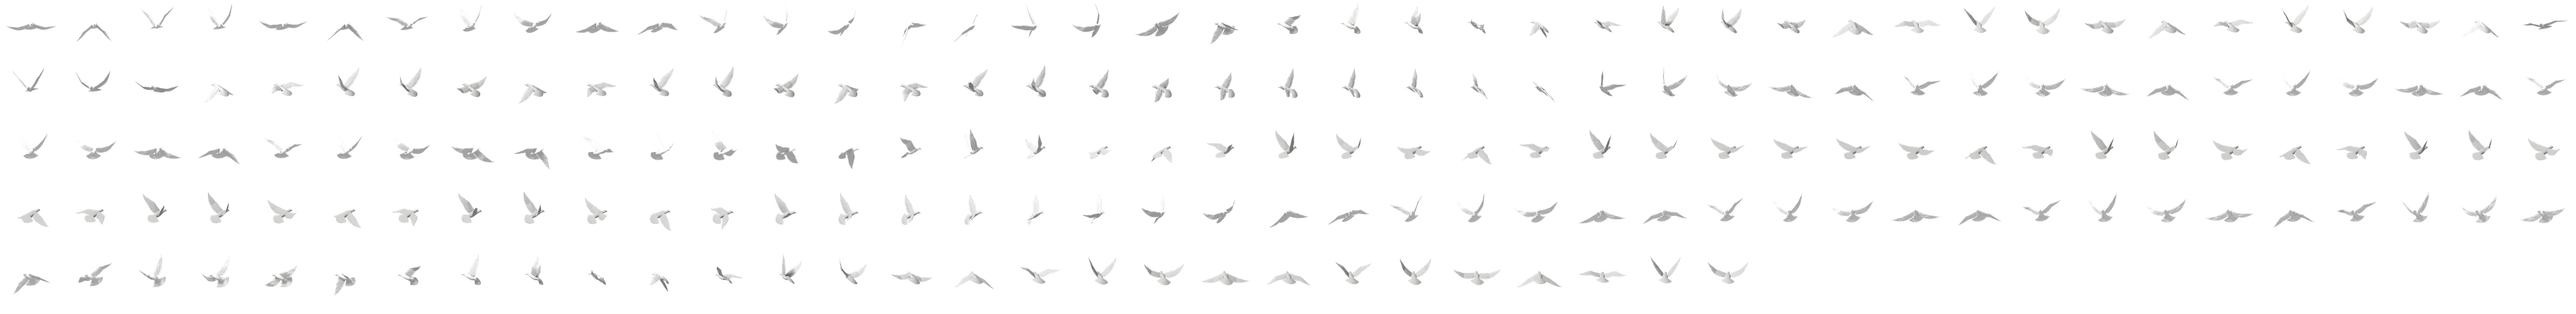
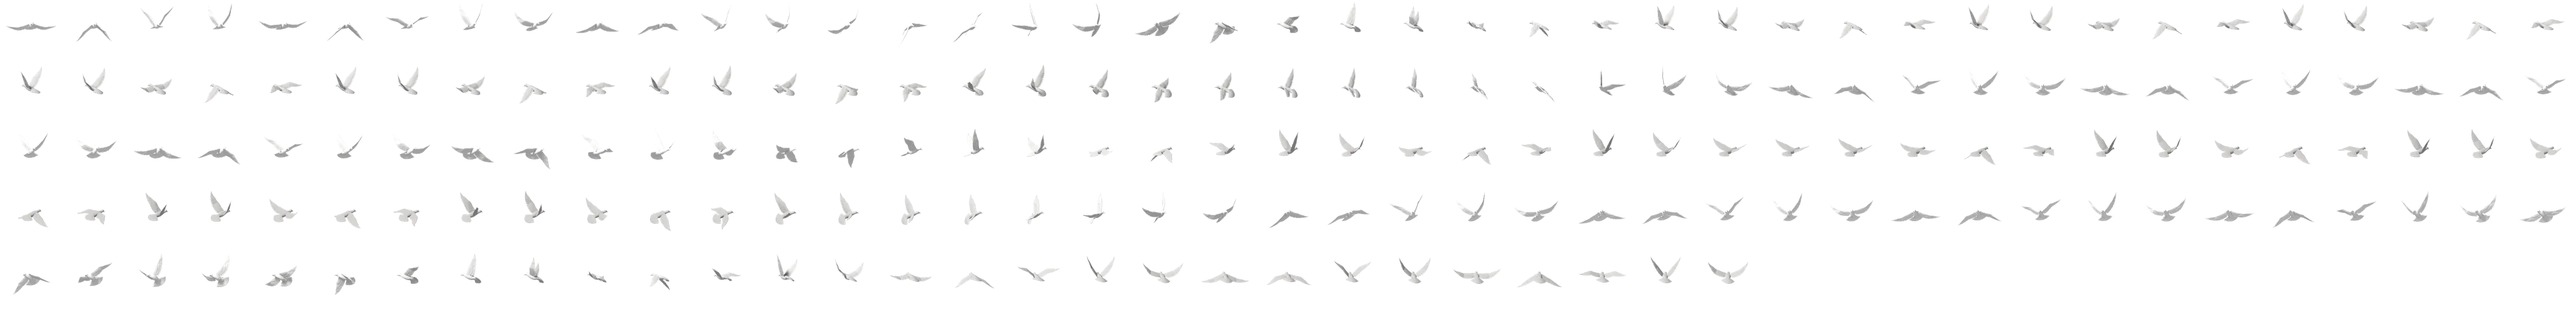
Camera dove A-C: never in the camera during the load
The loops' mid-lap climbs into the camera (dips) read as the load being
cancelled and left the tail showing. Only the out clip goes in now.
Re-rendered on a rented GPU.

Claude-Session: https://claude.ai/code/session_013h4Kq6GFrNUDgF21m8j8bP

diff --git a/apps/mobile/components/cameraDoveFrames.ts b/apps/mobile/components/cameraDoveFrames.ts
@@ -5,9 +5,9 @@
 export type CameraDovePath = { cell: number; px: number; cols: number; rows: number; ni: number; nl: number; no: number; sheet: number; f: number[] };
 export type CameraDoveId = 'a' | 'b' | 'c' | 'f';
 export const CAMERA_DOVES: Record<CameraDoveId, CameraDovePath> = {
-  a: { cell: 47.158, px: 108, cols: 37, rows: 5, ni: 21, nl: 120, no: 21, sheet: require('../assets/dove/camera/a.webp'), f: [0,-0.03,0.4,0,0.12,5.74,0.451,0.25,0.85,12.96,0.5062,0.5,2.47,19.94,0.5653,0.75,5,25.46,0.6254,1,8.27,29.13,0.6824,1,12.03,31.94,0.7338,1,16,33.2,0.78,1,19.92,33.06,0.8249,1,23.44,32.43,0.8693,1,26.32,32.45,0.9124,1,28.52,33.87,0.9535,1,30.09,34.29,0.9916,1,31.21,33.77,1.0259,1,32.1,32.92,1.0556,1,33.02,33.46,1.08,1,34.23,34.82,1.0988,1,35.93,34.78,1.1118,1,38.29,33.94,1.1191,1,41.32,32.99,1.1212,1,44.94,33.68,1.1194,1,48.88,34.84,1.1151,1,52.74,34.64,1.11,1,56.46,34.06,1.1045,1,60,34.02,1.0988,1,63.38,34.12,1.0927,1,66.58,34.23,1.0864,1,69.59,34.36,1.0798,1,72.42,34.47,1.0729,1,75.07,34.57,1.0659,1,77.53,34.63,1.0586,1,79.8,34.49,1.0512,1,81.89,33.82,1.0436,1,83.79,34.38,1.0359,1,85.51,35.39,1.028,1,87.05,35.12,1.02,1,88.41,34.2,1.0119,1,89.6,33.23,1.0037,1,90.61,33.69,0.9953,1,91.44,34.56,0.9869,1,92.1,34.25,0.9784,1,92.59,33.33,0.9697,1,92.9,32.34,0.961,1,93.03,32.67,0.9522,1,92.99,33.52,0.9433,1,92.76,33.28,0.9343,1,92.36,32.45,0.9253,1,91.77,31.49,0.9163,1,91.01,31.64,0.9073,1,90.07,32.56,0.8983,1,88.96,32.51,0.8894,1,87.67,31.86,0.8805,1,86.22,31.07,0.8717,1,84.58,31.24,0.863,1,82.76,31.56,0.8542,1,80.73,31.62,0.8454,1,78.47,31.65,0.8366,1,75.96,31.68,0.8276,1,73.17,31.71,0.8186,1,70.07,31.73,0.8095,1,66.61,31.68,0.8003,1,62.77,31.57,0.791,1,58.49,32.08,0.7817,1,53.74,32.18,0.7726,1,48.47,31.59,0.7636,1,42.68,30.77,0.7551,1,36.34,30.68,0.7472,1,29.48,31.47,0.7403,1,21.46,28.69,0.7231,1,12.91,21.49,0.6918,1,5.19,12.92,0.6571,1,-1.21,6.39,0.6296,1,-6.8,4.4,0.6194,1,-12.3,4.51,0.6221,1,-17.56,4.12,0.6262,1,-22.5,3.54,0.6314,1,-27.07,3.62,0.6375,1,-31.26,4.42,0.6442,1,-35.05,4.54,0.6513,1,-40.18,6.93,0.6707,1,-47.81,12.97,0.7073,1,-56.59,20.99,0.7503,1,-64.72,28.69,0.7882,1,-69.97,31.82,0.8092,1,-72.81,31.47,0.8175,1,-75.37,30.87,0.8257,1,-77.69,30.97,0.8337,1,-79.78,31.79,0.8416,1,-81.68,31.98,0.8494,1,-83.4,32.2,0.8572,1,-84.97,32.47,0.865,1,-86.39,32.75,0.8727,1,-87.67,33.03,0.8805,1,-88.83,33.31,0.8885,1,-89.86,33.6,0.8965,1,-90.76,34.14,0.9048,1,-91.53,34.77,0.9132,1,-92.15,34.55,0.9217,1,-92.61,33.88,0.9304,1,-92.91,33.75,0.9393,1,-93.04,34.97,0.9484,1,-92.97,35.57,0.9576,1,-92.71,35.21,0.9669,1,-92.23,34.42,0.9764,1,-91.53,34.13,0.9859,1,-90.6,35.34,0.9954,1,-89.42,35.98,1.005,1,-87.99,35.58,1.0145,1,-86.31,34.72,1.024,1,-84.38,34.4,1.0333,1,-82.2,35.67,1.0424,1,-79.77,36.29,1.0513,1,-77.09,35.82,1.06,1,-74.18,34.89,1.0683,1,-71.05,34.57,1.0763,1,-67.7,35.89,1.084,1,-64.15,36.45,1.0912,1,-60.41,35.93,1.0981,1,-56.5,34.94,1.1045,1,-52.43,34.58,1.1104,1,-48.21,35.87,1.1159,1,-43.85,36.45,1.1209,1,-39.38,35.91,1.1254,1,-34.8,34.88,1.1294,1,-30.14,34.36,1.1328,1,-25.4,35.55,1.1358,1,-20.6,36.24,1.1382,1,-15.76,35.74,1.1402,1,-10.88,34.71,1.1416,1,-5.99,33.97,1.1425,1,-1.1,34.97,1.1428,1,3.78,35.83,1.1427,1,8.63,35.4,1.1421,1,13.45,34.39,1.1409,1,18.2,33.47,1.1393,1,22.89,34.26,1.1371,1,27.49,35.25,1.1346,1,32.01,34.92,1.1315,1,36.41,33.96,1.128,1,40.7,33.01,1.1241,1,44.86,33.7,1.1198,1,48.88,34.84,1.1151,1,52.63,34.69,1.1098,1,55.65,33.95,1.1031,1,57.52,33.31,1.0942,1,58.06,34.45,1.0825,1,57.21,35.97,1.0677,1,55.07,36.16,1.0497,1,51.82,35.68,1.0285,1,47.73,35.27,1.0043,1,43.07,36.37,0.9773,1,38.17,36.95,0.9479,1,33.28,36.07,0.9165,1,28.65,34.44,0.8836,1,24.4,33.14,0.8496,1,20.56,32.91,0.815,1,17,31.65,0.78,1,13.36,29.18,0.7406,0.8,9.28,24.82,0.6832,0.6,5.22,19.58,0.6087,0.4,2.01,13.41,0.5294,0.2,0.32,6.44,0.4584,0] },
-  b: { cell: 47.053, px: 98, cols: 41, rows: 5, ni: 21, nl: 150, no: 21, sheet: require('../assets/dove/camera/b.webp'), f: [0,-0.03,0.4,0,0.26,5.58,0.4502,0.25,1.8,12.03,0.5013,0.5,5.15,17.77,0.5528,0.75,10.22,22.17,0.6036,1,16.54,25.47,0.6518,1,23.41,28.85,0.696,1,30.16,31.14,0.7352,1,36.37,31.41,0.7693,1,42,30.57,0.8,1,47.6,30.21,0.83,1,53.64,31.14,0.8601,1,60.19,31.22,0.89,1,67.02,30.51,0.9189,1,73.67,29.57,0.9462,1,79.55,29.92,0.9709,1,84.07,31.09,0.992,1,86.67,31.06,1.0088,1,87,30.34,1.0206,1,84.95,29.55,1.0271,1,80.76,30.3,1.0284,1,75.15,31.5,1.0251,1,69.12,31.5,1.0184,1,63.12,30.91,1.009,1,57.3,30.31,0.9979,1,51.68,31.13,0.9858,1,46.26,32.41,0.9731,1,41.05,32.52,0.9602,1,36.03,32.02,0.9474,1,30.64,30.24,0.9246,1,23.12,23.18,0.8492,1,15.9,13.66,0.7544,1,10.75,5.73,0.6832,1,7.82,3.99,0.6649,1,5.23,3.44,0.6565,1,2.69,3.8,0.6484,1,0.19,4.52,0.6406,1,-2.28,4.46,0.633,1,-4.72,4,0.6258,1,-7.13,3.47,0.6188,1,-9.8,5.02,0.6209,1,-14.4,13.53,0.6697,1,-20.73,23.88,0.7363,1,-27.15,30.92,0.7833,1,-31.48,31.27,0.7845,1,-35.32,31.42,0.7775,1,-39.14,32.11,0.771,1,-42.93,31.91,0.7649,1,-46.71,31.2,0.7591,1,-50.47,30.34,0.7538,1,-54.21,30.37,0.749,1,-57.93,31.09,0.7446,1,-61.62,31.02,0.7407,1,-65.27,30.42,0.7374,1,-68.87,29.64,0.7345,1,-72.41,29.56,0.7322,1,-75.87,30.37,0.7305,1,-79.23,30.55,0.7294,1,-82.49,30.13,0.729,1,-85.66,29.63,0.7291,1,-88.78,29.76,0.7299,1,-91.89,29.96,0.7314,1,-95.05,30.01,0.7338,1,-98.26,30.08,0.7373,1,-101.49,29.97,0.7422,1,-104.58,29.81,0.7485,1,-107.39,30.57,0.756,1,-109.83,31.02,0.7645,1,-111.88,30.71,0.7737,1,-113.56,30.06,0.7834,1,-114.9,29.77,0.7933,1,-115.97,30.69,0.8035,1,-116.78,31.2,0.8139,1,-117.37,30.87,0.8244,1,-117.76,30.14,0.8351,1,-117.96,29.76,0.8459,1,-117.99,30.71,0.8568,1,-117.86,31.27,0.8679,1,-117.56,30.91,0.8791,1,-117.11,30.13,0.8903,1,-116.5,29.72,0.9017,1,-115.72,30.75,0.9131,1,-114.78,31.34,0.9246,1,-113.67,30.94,0.936,1,-112.37,30.11,0.9473,1,-110.89,29.7,0.9584,1,-109.22,30.79,0.9692,1,-107.36,31.42,0.9796,1,-105.29,31.01,0.9894,1,-103.03,30.16,0.9984,1,-100.54,29.72,1.0066,1,-97.79,30.85,1.0138,1,-94.67,31.57,1.0201,1,-91.02,31.22,1.0251,1,-86.66,30.42,1.0283,1,-81.52,29.99,1.0287,1,-75.76,31.2,1.0257,1,-69.71,32.17,1.0191,1,-63.66,32.05,1.0099,1,-57.76,31.46,0.9989,1,-52.07,31.1,0.9867,1,-46.57,32.24,0.9739,1,-41.28,33.36,0.9608,1,-36.18,33.38,0.9477,1,-31.26,32.9,0.9348,1,-26.48,32.44,0.9222,1,-21.83,33.29,0.9098,1,-17.3,34.42,0.8978,1,-12.85,34.34,0.8861,1,-8.5,34.1,0.8748,1,-4.21,34.1,0.8639,1,0,34.25,0.8533,1,4.15,34.16,0.8432,1,8.25,33.5,0.8335,1,12.3,33.82,0.8242,1,16.3,34.67,0.8153,1,20.27,34.57,0.8067,1,24.19,33.88,0.7986,1,28.08,33,0.7909,1,31.94,32.99,0.7836,1,35.77,33.73,0.7767,1,39.57,33.63,0.7703,1,43.35,32.93,0.7642,1,47.11,32.03,0.7586,1,50.84,31.89,0.7534,1,54.55,32.62,0.7486,1,58.22,32.58,0.7443,1,61.87,31.94,0.7405,1,65.48,31.1,0.7372,1,69.03,30.98,0.7344,1,72.52,31.76,0.7322,1,75.92,31.81,0.7305,1,79.23,31.27,0.7294,1,82.44,30.53,0.729,1,85.57,30.53,0.7291,1,88.64,31.25,0.7298,1,91.71,31.13,0.7313,1,94.82,30.97,0.7336,1,97.99,30.99,0.737,1,101.18,31.02,0.7416,1,104.26,31.22,0.7477,1,107.08,31.51,0.7551,1,109.55,31.25,0.7634,1,111.63,30.56,0.7725,1,113.35,30.57,0.7821,1,114.74,31.53,0.792,1,115.84,31.74,0.8021,1,116.69,31.26,0.8125,1,117.31,30.49,0.8231,1,117.72,30.34,0.8338,1,117.95,31.32,0.8447,1,118,31.64,0.8557,1,117.88,31.19,0.8669,1,117.59,30.38,0.8782,1,117.14,30.03,0.8896,1,116.53,31,0.9011,1,115.75,31.53,0.9127,1,114.8,31.13,0.9243,1,113.68,30.31,0.9359,1,112.37,29.76,0.9473,1,110.86,30.65,0.9586,1,109.16,31.4,0.9696,1,107.26,31.09,0.9801,1,105.16,30.27,0.9899,1,102.86,29.56,0.999,1,100.33,30.35,1.0072,1,97.52,31.3,1.0144,1,94.34,31.1,1.0206,1,90.61,30.32,1.0255,1,86.16,29.56,1.0285,1,80.94,30.33,1.0286,1,75.15,31.5,1.0251,1,69.11,31.52,1.0184,1,63.06,31.07,1.009,1,57.17,30.8,0.9975,1,51.56,32.23,0.9841,1,46.33,34,0.9688,1,41.5,34.53,0.9514,1,37.1,34.34,0.9317,1,33.11,34.06,0.9097,1,29.48,34.97,0.8852,1,26.15,35.26,0.8584,1,23.02,34.14,0.8298,1,20,32.41,0.8,1,16.96,31.13,0.7695,1,13.77,30.66,0.7365,1,10.47,28.72,0.6994,1,7.27,25.3,0.6577,0.8,4.42,20.94,0.6116,0.6,2.2,16.76,0.5617,0.4,0.76,12.11,0.5091,0.2,0.11,6.21,0.4549,0] },
-  c: { cell: 47.218, px: 116, cols: 35, rows: 7, ni: 21, nl: 170, no: 21, sheet: require('../assets/dove/camera/c.webp'), f: [0,-0.03,0.4,0,0.33,5.58,0.4491,0.25,2.28,11.98,0.4939,0.5,6.54,17.61,0.5327,0.75,13.04,21.89,0.566,1,21.18,25.08,0.5956,1,30.12,28.24,0.624,1,39.03,30.3,0.6535,1,47.34,30.48,0.6855,1,55,29.61,0.72,1,62.49,29.15,0.7554,1,69.86,29.82,0.7926,1,76.95,29.61,0.8325,1,83.55,28.56,0.8752,1,89.48,27.19,0.9202,1,94.58,27,0.9663,1,98.82,27.64,1.0122,1,102.23,27.08,1.0563,1,105.06,25.8,1.0971,1,107.71,24.43,1.1333,1,110.85,24.75,1.164,1,115.4,25.58,1.1887,1,122.31,24.94,1.2054,1,129.64,23.63,1.2067,1,135.15,22.45,1.197,1,138.97,23.14,1.1822,1,141.62,24.24,1.1652,1,143.48,23.93,1.1474,1,144.75,22.96,1.1293,1,145.57,22.09,1.1108,1,145.96,22.96,1.092,1,145.93,24.05,1.073,1,145.49,23.87,1.0535,1,144.67,23.14,1.0338,1,143.5,22.59,1.0139,1,142.06,23.71,0.994,1,140.41,24.85,0.9743,1,138.6,24.84,0.9548,1,136.64,24.36,0.9357,1,134.56,24.11,0.917,1,132.34,25.35,0.8987,1,129.98,26.42,0.8808,1,127.44,26.47,0.8633,1,124.7,26.08,0.8462,1,121.69,25.94,0.8293,1,118.36,27.1,0.8128,1,114.7,28.02,0.7967,1,110.76,28.03,0.7811,1,106.63,27.69,0.7661,1,102.39,27.6,0.7519,1,98.11,28.73,0.7383,1,93.83,29.62,0.7254,1,89.58,29.7,0.7132,1,85.37,29.44,0.7018,1,81.19,29.37,0.6911,1,77.01,30.36,0.681,1,72.83,31.18,0.6715,1,68.63,31.23,0.6626,1,64.37,30.92,0.6543,1,60.02,30.7,0.6465,1,55.53,31.42,0.6394,1,50.98,32.04,0.6332,1,46.4,31.88,0.6277,1,41.72,31.33,0.6228,1,37.07,30.79,0.6184,1,32.59,31.17,0.6141,1,28.38,31.69,0.6099,1,24.18,30.77,0.6032,1,18.77,25.2,0.5824,1,13.44,17.07,0.5535,1,9.06,9.74,0.5253,1,6.01,5.18,0.506,1,4.12,4.35,0.5013,1,2.25,3.98,0.4998,1,0.28,3.57,0.4998,1,-1.56,3.86,0.5023,1,-3.11,4.41,0.5065,1,-4.6,5.13,0.5141,1,-7.15,9.84,0.5373,1,-11.19,17.06,0.5707,1,-16.68,25.09,0.6049,1,-23.03,30.87,0.6296,1,-28.81,31.6,0.638,1,-34.78,31.2,0.6438,1,-41.01,30.81,0.6509,1,-47.03,31.43,0.6604,1,-52.43,32.26,0.6728,1,-57.16,32.28,0.6875,1,-61.43,31.93,0.7039,1,-65.37,31.98,0.722,1,-69.08,32.16,0.7416,1,-72.62,32.17,0.7628,1,-76.04,32.07,0.7857,1,-79.37,31.68,0.8105,1,-82.65,30.83,0.8371,1,-85.85,30.73,0.8659,1,-88.95,30.76,0.897,1,-91.92,29.63,0.9305,1,-94.73,27.97,0.9661,1,-97.36,26.55,1.003,1,-99.85,26.89,1.04,1,-102.28,27.33,1.0753,1,-104.67,26.62,1.107,1,-107.01,25.37,1.1333,1,-109.48,24.33,1.1553,1,-112.88,25.07,1.1772,1,-118.56,25.63,1.1986,1,-126.14,24.82,1.2079,1,-132.61,23.53,1.2028,1,-137.19,22.58,1.1901,1,-140.36,23.52,1.1742,1,-142.57,24.45,1.157,1,-144.12,24.05,1.1392,1,-145.16,23.09,1.1212,1,-145.78,22.3,1.1029,1,-146,23.22,1.0843,1,-145.81,24.28,1.0653,1,-145.22,24.14,1.046,1,-144.27,23.47,1.0265,1,-143.02,22.9,1.0069,1,-141.53,23.84,0.9873,1,-139.84,25.1,0.9679,1,-138,25.24,0.9488,1,-136.03,24.85,0.93,1,-133.94,24.45,0.9117,1,-131.7,25.34,0.8937,1,-129.31,26.65,0.8761,1,-126.74,26.91,0.8588,1,-123.95,26.63,0.8418,1,-120.87,26.27,0.8251,1,-117.46,27,0.8087,1,-113.72,28.22,0.7927,1,-109.72,28.49,0.7773,1,-105.55,28.25,0.7625,1,-101.29,27.94,0.7483,1,-97,28.64,0.7348,1,-92.72,29.83,0.7221,1,-88.47,30.14,0.71,1,-84.26,29.95,0.6988,1,-80.06,29.68,0.6881,1,-75.85,30.35,0.6781,1,-71.62,31.4,0.6687,1,-67.34,31.6,0.6598,1,-62.97,31.33,0.6516,1,-58.47,30.99,0.644,1,-53.89,31.52,0.6373,1,-49.26,32.26,0.6315,1,-44.58,32.14,0.6263,1,-39.8,31.58,0.6216,1,-35.14,30.99,0.6171,1,-30.74,31.37,0.6126,1,-26.71,31.87,0.608,1,-22.79,30.88,0.6009,1,-17.79,25.23,0.5799,1,-12.84,17.09,0.551,1,-8.67,9.86,0.5226,1,-5.72,5.21,0.503,1,-3.85,4.29,0.4979,1,-1.99,3.87,0.4962,1,0,3.55,0.4964,1,1.79,4.03,0.4993,1,3.24,4.45,0.5038,1,4.63,5.05,0.5117,1,7.04,9.67,0.535,1,10.82,16.93,0.5684,1,15.93,25.1,0.6029,1,21.82,30.72,0.6283,1,27.33,31.36,0.6372,1,33.15,30.94,0.6429,1,39.36,30.63,0.6493,1,45.51,31.34,0.6578,1,51.11,32.14,0.6693,1,55.98,32.09,0.6833,1,60.32,31.98,0.6992,1,64.3,32.06,0.7166,1,68.02,32.16,0.7355,1,71.55,32.2,0.756,1,74.94,32.19,0.778,1,78.24,31.81,0.8018,1,81.49,30.83,0.8274,1,84.66,30.84,0.855,1,87.76,30.97,0.8848,1,90.74,29.96,0.9169,1,93.59,28.33,0.9511,1,96.25,26.73,0.9871,1,98.76,26.7,1.0237,1,101.18,27.27,1.0596,1,103.57,26.71,1.0929,1,105.9,25.52,1.1215,1,108.23,24.29,1.1449,1,111,24.72,1.1661,1,115.4,25.58,1.1887,1,121.91,24.98,1.2059,1,128.64,23.86,1.2089,1,133.92,23.14,1.1934,1,136.79,24.69,1.1594,1,136.86,26.87,1.1095,1,134.2,27.83,1.0487,1,129.19,28.23,0.9828,1,122.43,28.71,0.9179,1,114.59,30.38,0.8593,1,106.31,31.31,0.8102,1,98.06,30.8,0.7715,1,90,29.64,0.74,1,81.47,28.88,0.7102,1,70.58,28.83,0.6811,1,56.89,27.36,0.652,1,41.5,24.4,0.6215,0.8,26.34,20.43,0.5878,0.6,13.56,16.5,0.5491,0.4,4.83,12.02,0.5046,0.2,0.72,6.19,0.4542,0] },
+  a: { cell: 47.132, px: 108, cols: 37, rows: 5, ni: 21, nl: 120, no: 21, sheet: require('../assets/dove/camera/a.webp'), f: [0,-0.03,0.4,0,0.12,5.74,0.451,0.25,0.85,12.96,0.5062,0.5,2.47,19.94,0.5653,0.75,5,25.46,0.6254,1,8.27,29.13,0.6824,1,12.03,31.94,0.7338,1,16,33.2,0.78,1,19.92,33.06,0.8249,1,23.44,32.43,0.8693,1,26.32,32.45,0.9124,1,28.52,33.87,0.9535,1,30.09,34.29,0.9916,1,31.21,33.77,1.0259,1,32.1,32.92,1.0556,1,33.02,33.46,1.08,1,34.23,34.82,1.0988,1,35.93,34.78,1.1118,1,38.29,33.94,1.1191,1,41.32,32.99,1.1212,1,44.94,33.68,1.1194,1,48.88,34.84,1.1151,1,52.74,34.64,1.11,1,56.46,34.06,1.1045,1,60,34.02,1.0988,1,63.38,34.12,1.0927,1,66.58,34.23,1.0864,1,69.59,34.36,1.0798,1,72.42,34.47,1.0729,1,75.07,34.57,1.0659,1,77.53,34.63,1.0586,1,79.8,34.49,1.0512,1,81.89,33.82,1.0436,1,83.79,34.38,1.0359,1,85.51,35.39,1.028,1,87.05,35.12,1.02,1,88.41,34.2,1.0119,1,89.6,33.23,1.0037,1,90.61,33.69,0.9953,1,91.44,34.56,0.9869,1,92.1,34.25,0.9784,1,92.59,33.33,0.9697,1,92.9,32.34,0.961,1,93.03,32.67,0.9522,1,92.99,33.52,0.9433,1,92.76,33.28,0.9343,1,92.36,32.45,0.9253,1,91.77,31.49,0.9163,1,91.01,31.64,0.9073,1,90.07,32.56,0.8983,1,88.96,32.51,0.8894,1,87.67,31.86,0.8805,1,86.22,31.07,0.8717,1,84.58,31.24,0.863,1,82.76,31.56,0.8542,1,80.73,31.62,0.8454,1,78.47,31.65,0.8366,1,75.96,31.68,0.8276,1,73.17,31.71,0.8186,1,70.07,31.73,0.8095,1,66.61,31.68,0.8003,1,62.77,31.57,0.791,1,58.49,32.08,0.7817,1,53.74,32.18,0.7726,1,48.47,31.59,0.7636,1,42.68,30.77,0.7551,1,36.34,30.68,0.7472,1,29.48,31.47,0.7403,1,22.15,31.49,0.7346,1,14.43,30.92,0.7304,1,6.45,30.16,0.7279,1,-1.66,30.18,0.7273,1,-9.72,31.05,0.7287,1,-17.58,31.17,0.7319,1,-25.09,30.71,0.7367,1,-32.14,30.07,0.7428,1,-38.68,30.2,0.75,1,-44.65,31.18,0.7579,1,-50.07,31.39,0.7662,1,-54.95,30.98,0.7748,1,-59.34,30.34,0.7835,1,-63.28,30.45,0.7922,1,-66.8,31.51,0.8007,1,-69.97,31.82,0.8092,1,-72.81,31.47,0.8175,1,-75.37,30.87,0.8257,1,-77.69,30.97,0.8337,1,-79.78,31.79,0.8416,1,-81.68,31.98,0.8494,1,-83.4,32.2,0.8572,1,-84.97,32.47,0.865,1,-86.39,32.75,0.8727,1,-87.67,33.03,0.8805,1,-88.83,33.31,0.8885,1,-89.86,33.6,0.8965,1,-90.76,34.14,0.9048,1,-91.53,34.77,0.9132,1,-92.15,34.55,0.9217,1,-92.61,33.88,0.9304,1,-92.91,33.75,0.9393,1,-93.04,34.97,0.9484,1,-92.97,35.57,0.9576,1,-92.71,35.21,0.9669,1,-92.23,34.42,0.9764,1,-91.53,34.13,0.9859,1,-90.6,35.34,0.9954,1,-89.42,35.98,1.005,1,-87.99,35.58,1.0145,1,-86.31,34.72,1.024,1,-84.38,34.4,1.0333,1,-82.2,35.67,1.0424,1,-79.77,36.29,1.0513,1,-77.09,35.82,1.06,1,-74.18,34.89,1.0683,1,-71.05,34.57,1.0763,1,-67.7,35.89,1.084,1,-64.15,36.45,1.0912,1,-60.41,35.93,1.0981,1,-56.5,34.94,1.1045,1,-52.43,34.58,1.1104,1,-48.21,35.87,1.1159,1,-43.85,36.45,1.1209,1,-39.38,35.91,1.1254,1,-34.8,34.88,1.1294,1,-30.14,34.36,1.1328,1,-25.4,35.55,1.1358,1,-20.6,36.24,1.1382,1,-15.76,35.74,1.1402,1,-10.88,34.71,1.1416,1,-5.99,33.97,1.1425,1,-1.1,34.97,1.1428,1,3.78,35.83,1.1427,1,8.63,35.4,1.1421,1,13.45,34.39,1.1409,1,18.2,33.47,1.1393,1,22.89,34.26,1.1371,1,27.49,35.25,1.1346,1,32.01,34.92,1.1315,1,36.41,33.96,1.128,1,40.7,33.01,1.1241,1,44.86,33.7,1.1198,1,48.88,34.84,1.1151,1,52.63,34.69,1.1098,1,55.65,33.95,1.1031,1,57.52,33.31,1.0942,1,58.06,34.45,1.0825,1,57.21,35.97,1.0677,1,55.07,36.16,1.0497,1,51.82,35.68,1.0285,1,47.73,35.27,1.0043,1,43.07,36.37,0.9773,1,38.17,36.95,0.9479,1,33.28,36.07,0.9165,1,28.65,34.44,0.8836,1,24.4,33.14,0.8496,1,20.56,32.91,0.815,1,17,31.65,0.78,1,13.36,29.18,0.7406,0.8,9.28,24.82,0.6832,0.6,5.22,19.58,0.6087,0.4,2.01,13.41,0.5294,0.2,0.32,6.44,0.4584,0] },
+  b: { cell: 47.039, px: 98, cols: 41, rows: 5, ni: 21, nl: 150, no: 21, sheet: require('../assets/dove/camera/b.webp'), f: [0,-0.03,0.4,0,0.26,5.58,0.4502,0.25,1.8,12.03,0.5013,0.5,5.15,17.77,0.5528,0.75,10.22,22.17,0.6036,1,16.54,25.47,0.6518,1,23.41,28.85,0.696,1,30.16,31.14,0.7352,1,36.37,31.41,0.7693,1,42,30.57,0.8,1,47.6,30.21,0.83,1,53.64,31.14,0.8601,1,60.19,31.22,0.89,1,67.02,30.51,0.9189,1,73.67,29.57,0.9462,1,79.55,29.92,0.9709,1,84.07,31.09,0.992,1,86.67,31.06,1.0088,1,87,30.34,1.0206,1,84.95,29.55,1.0271,1,80.76,30.3,1.0284,1,75.15,31.5,1.0251,1,69.12,31.5,1.0184,1,63.12,30.91,1.009,1,57.3,30.31,0.9979,1,51.68,31.13,0.9858,1,46.26,32.41,0.9731,1,41.05,32.52,0.9602,1,36.03,32.02,0.9474,1,31.18,31.45,0.9346,1,26.47,32.16,0.9221,1,21.89,33.32,0.9099,1,17.41,33.35,0.8981,1,13.03,32.79,0.8865,1,8.72,32.12,0.8754,1,4.49,32.63,0.8645,1,0.32,33.58,0.8541,1,-3.8,33.47,0.8441,1,-7.87,32.79,0.8344,1,-11.89,32,0.8251,1,-15.87,32.31,0.8162,1,-19.82,33.08,0.8077,1,-23.73,32.87,0.7996,1,-27.62,32.12,0.7918,1,-31.48,31.27,0.7845,1,-35.32,31.42,0.7775,1,-39.14,32.11,0.771,1,-42.93,31.91,0.7649,1,-46.71,31.2,0.7591,1,-50.47,30.34,0.7538,1,-54.21,30.37,0.749,1,-57.93,31.09,0.7446,1,-61.62,31.02,0.7407,1,-65.27,30.42,0.7374,1,-68.87,29.64,0.7345,1,-72.41,29.56,0.7322,1,-75.87,30.37,0.7305,1,-79.23,30.55,0.7294,1,-82.49,30.13,0.729,1,-85.66,29.63,0.7291,1,-88.78,29.76,0.7299,1,-91.89,29.96,0.7314,1,-95.05,30.01,0.7338,1,-98.26,30.08,0.7373,1,-101.49,29.97,0.7422,1,-104.58,29.81,0.7485,1,-107.39,30.57,0.756,1,-109.83,31.02,0.7645,1,-111.88,30.71,0.7737,1,-113.56,30.06,0.7834,1,-114.9,29.77,0.7933,1,-115.97,30.69,0.8035,1,-116.78,31.2,0.8139,1,-117.37,30.87,0.8244,1,-117.76,30.14,0.8351,1,-117.96,29.76,0.8459,1,-117.99,30.71,0.8568,1,-117.86,31.27,0.8679,1,-117.56,30.91,0.8791,1,-117.11,30.13,0.8903,1,-116.5,29.72,0.9017,1,-115.72,30.75,0.9131,1,-114.78,31.34,0.9246,1,-113.67,30.94,0.936,1,-112.37,30.11,0.9473,1,-110.89,29.7,0.9584,1,-109.22,30.79,0.9692,1,-107.36,31.42,0.9796,1,-105.29,31.01,0.9894,1,-103.03,30.16,0.9984,1,-100.54,29.72,1.0066,1,-97.79,30.85,1.0138,1,-94.67,31.57,1.0201,1,-91.02,31.22,1.0251,1,-86.66,30.42,1.0283,1,-81.52,29.99,1.0287,1,-75.76,31.2,1.0257,1,-69.71,32.17,1.0191,1,-63.66,32.05,1.0099,1,-57.76,31.46,0.9989,1,-52.07,31.1,0.9867,1,-46.57,32.24,0.9739,1,-41.28,33.36,0.9608,1,-36.18,33.38,0.9477,1,-31.26,32.9,0.9348,1,-26.48,32.44,0.9222,1,-21.83,33.29,0.9098,1,-17.3,34.42,0.8978,1,-12.85,34.34,0.8861,1,-8.5,34.1,0.8748,1,-4.21,34.1,0.8639,1,0,34.25,0.8533,1,4.15,34.16,0.8432,1,8.25,33.5,0.8335,1,12.3,33.82,0.8242,1,16.3,34.67,0.8153,1,20.27,34.57,0.8067,1,24.19,33.88,0.7986,1,28.08,33,0.7909,1,31.94,32.99,0.7836,1,35.77,33.73,0.7767,1,39.57,33.63,0.7703,1,43.35,32.93,0.7642,1,47.11,32.03,0.7586,1,50.84,31.89,0.7534,1,54.55,32.62,0.7486,1,58.22,32.58,0.7443,1,61.87,31.94,0.7405,1,65.48,31.1,0.7372,1,69.03,30.98,0.7344,1,72.52,31.76,0.7322,1,75.92,31.81,0.7305,1,79.23,31.27,0.7294,1,82.44,30.53,0.729,1,85.57,30.53,0.7291,1,88.64,31.25,0.7298,1,91.71,31.13,0.7313,1,94.82,30.97,0.7336,1,97.99,30.99,0.737,1,101.18,31.02,0.7416,1,104.26,31.22,0.7477,1,107.08,31.51,0.7551,1,109.55,31.25,0.7634,1,111.63,30.56,0.7725,1,113.35,30.57,0.7821,1,114.74,31.53,0.792,1,115.84,31.74,0.8021,1,116.69,31.26,0.8125,1,117.31,30.49,0.8231,1,117.72,30.34,0.8338,1,117.95,31.32,0.8447,1,118,31.64,0.8557,1,117.88,31.19,0.8669,1,117.59,30.38,0.8782,1,117.14,30.03,0.8896,1,116.53,31,0.9011,1,115.75,31.53,0.9127,1,114.8,31.13,0.9243,1,113.68,30.31,0.9359,1,112.37,29.76,0.9473,1,110.86,30.65,0.9586,1,109.16,31.4,0.9696,1,107.26,31.09,0.9801,1,105.16,30.27,0.9899,1,102.86,29.56,0.999,1,100.33,30.35,1.0072,1,97.52,31.3,1.0144,1,94.34,31.1,1.0206,1,90.61,30.32,1.0255,1,86.16,29.56,1.0285,1,80.94,30.33,1.0286,1,75.15,31.5,1.0251,1,69.11,31.52,1.0184,1,63.06,31.07,1.009,1,57.17,30.8,0.9975,1,51.56,32.23,0.9841,1,46.33,34,0.9688,1,41.5,34.53,0.9514,1,37.1,34.34,0.9317,1,33.11,34.06,0.9097,1,29.48,34.97,0.8852,1,26.15,35.26,0.8584,1,23.02,34.14,0.8298,1,20,32.41,0.8,1,16.96,31.13,0.7695,1,13.77,30.66,0.7365,1,10.47,28.72,0.6994,1,7.27,25.3,0.6577,0.8,4.42,20.94,0.6116,0.6,2.2,16.76,0.5617,0.4,0.76,12.11,0.5091,0.2,0.11,6.21,0.4549,0] },
+  c: { cell: 47.181, px: 116, cols: 35, rows: 7, ni: 21, nl: 170, no: 21, sheet: require('../assets/dove/camera/c.webp'), f: [0,-0.03,0.4,0,0.33,5.58,0.4491,0.25,2.28,11.98,0.4939,0.5,6.54,17.61,0.5327,0.75,13.04,21.89,0.566,1,21.18,25.08,0.5956,1,30.12,28.24,0.624,1,39.03,30.3,0.6535,1,47.34,30.48,0.6855,1,55,29.61,0.72,1,62.49,29.15,0.7554,1,69.86,29.82,0.7926,1,76.95,29.61,0.8325,1,83.55,28.56,0.8752,1,89.48,27.19,0.9202,1,94.58,27,0.9663,1,98.82,27.64,1.0122,1,102.23,27.08,1.0563,1,105.06,25.8,1.0971,1,107.71,24.43,1.1333,1,110.85,24.75,1.164,1,115.4,25.58,1.1887,1,122.31,24.94,1.2054,1,129.64,23.63,1.2067,1,135.15,22.45,1.197,1,138.97,23.14,1.1822,1,141.62,24.24,1.1652,1,143.48,23.93,1.1474,1,144.75,22.96,1.1293,1,145.57,22.09,1.1108,1,145.96,22.96,1.092,1,145.93,24.05,1.073,1,145.49,23.87,1.0535,1,144.67,23.14,1.0338,1,143.5,22.59,1.0139,1,142.06,23.71,0.994,1,140.41,24.85,0.9743,1,138.6,24.84,0.9548,1,136.64,24.36,0.9357,1,134.56,24.11,0.917,1,132.34,25.35,0.8987,1,129.98,26.42,0.8808,1,127.44,26.47,0.8633,1,124.7,26.08,0.8462,1,121.69,25.94,0.8293,1,118.36,27.1,0.8128,1,114.7,28.02,0.7967,1,110.76,28.03,0.7811,1,106.63,27.69,0.7661,1,102.39,27.6,0.7519,1,98.11,28.73,0.7383,1,93.83,29.62,0.7254,1,89.58,29.7,0.7132,1,85.37,29.44,0.7018,1,81.19,29.37,0.6911,1,77.01,30.36,0.681,1,72.83,31.18,0.6715,1,68.63,31.23,0.6626,1,64.37,30.92,0.6543,1,60.02,30.7,0.6465,1,55.53,31.42,0.6394,1,50.98,32.04,0.6332,1,46.4,31.88,0.6277,1,41.72,31.33,0.6228,1,37.07,30.79,0.6184,1,32.59,31.17,0.6141,1,28.38,31.69,0.6099,1,24.53,31.53,0.6058,1,21.05,31.05,0.6019,1,17.91,30.58,0.5984,1,14.9,30.98,0.5953,1,11.7,31.63,0.5923,1,8.24,31.58,0.5897,1,4.51,31.17,0.588,1,0.56,30.72,0.588,1,-3.13,31.06,0.5909,1,-6.22,31.69,0.5958,1,-8.96,31.6,0.6019,1,-11.76,31.11,0.609,1,-14.92,30.57,0.617,1,-18.7,30.93,0.6251,1,-23.36,31.63,0.6322,1,-28.81,31.6,0.638,1,-34.78,31.2,0.6438,1,-41.01,30.81,0.6509,1,-47.03,31.43,0.6604,1,-52.43,32.26,0.6728,1,-57.16,32.28,0.6875,1,-61.43,31.93,0.7039,1,-65.37,31.98,0.722,1,-69.08,32.16,0.7416,1,-72.62,32.17,0.7628,1,-76.04,32.07,0.7857,1,-79.37,31.68,0.8105,1,-82.65,30.83,0.8371,1,-85.85,30.73,0.8659,1,-88.95,30.76,0.897,1,-91.92,29.63,0.9305,1,-94.73,27.97,0.9661,1,-97.36,26.55,1.003,1,-99.85,26.89,1.04,1,-102.28,27.33,1.0753,1,-104.67,26.62,1.107,1,-107.01,25.37,1.1333,1,-109.48,24.33,1.1553,1,-112.88,25.07,1.1772,1,-118.56,25.63,1.1986,1,-126.14,24.82,1.2079,1,-132.61,23.53,1.2028,1,-137.19,22.58,1.1901,1,-140.36,23.52,1.1742,1,-142.57,24.45,1.157,1,-144.12,24.05,1.1392,1,-145.16,23.09,1.1212,1,-145.78,22.3,1.1029,1,-146,23.22,1.0843,1,-145.81,24.28,1.0653,1,-145.22,24.14,1.046,1,-144.27,23.47,1.0265,1,-143.02,22.9,1.0069,1,-141.53,23.84,0.9873,1,-139.84,25.1,0.9679,1,-138,25.24,0.9488,1,-136.03,24.85,0.93,1,-133.94,24.45,0.9117,1,-131.7,25.34,0.8937,1,-129.31,26.65,0.8761,1,-126.74,26.91,0.8588,1,-123.95,26.63,0.8418,1,-120.87,26.27,0.8251,1,-117.46,27,0.8087,1,-113.72,28.22,0.7927,1,-109.72,28.49,0.7773,1,-105.55,28.25,0.7625,1,-101.29,27.94,0.7483,1,-97,28.64,0.7348,1,-92.72,29.83,0.7221,1,-88.47,30.14,0.71,1,-84.26,29.95,0.6988,1,-80.06,29.68,0.6881,1,-75.85,30.35,0.6781,1,-71.62,31.4,0.6687,1,-67.34,31.6,0.6598,1,-62.97,31.33,0.6516,1,-58.47,30.99,0.644,1,-53.89,31.52,0.6373,1,-49.26,32.26,0.6315,1,-44.58,32.14,0.6263,1,-39.8,31.58,0.6216,1,-35.14,30.99,0.6171,1,-30.74,31.37,0.6126,1,-26.71,31.87,0.608,1,-23.11,31.65,0.6034,1,-19.95,31.1,0.5993,1,-17.12,30.64,0.5957,1,-14.26,31.15,0.5923,1,-11.13,31.64,0.5888,1,-7.71,31.43,0.5858,1,-3.97,30.91,0.5838,1,0,30.51,0.5839,1,3.57,31.03,0.5874,1,6.47,31.49,0.5927,1,9.01,31.28,0.599,1,11.57,30.75,0.6063,1,14.43,30.33,0.6145,1,17.86,30.9,0.6231,1,22.13,31.47,0.6309,1,27.33,31.36,0.6372,1,33.15,30.94,0.6429,1,39.36,30.63,0.6493,1,45.51,31.34,0.6578,1,51.11,32.14,0.6693,1,55.98,32.09,0.6833,1,60.32,31.98,0.6992,1,64.3,32.06,0.7166,1,68.02,32.16,0.7355,1,71.55,32.2,0.756,1,74.94,32.19,0.778,1,78.24,31.81,0.8018,1,81.49,30.83,0.8274,1,84.66,30.84,0.855,1,87.76,30.97,0.8848,1,90.74,29.96,0.9169,1,93.59,28.33,0.9511,1,96.25,26.73,0.9871,1,98.76,26.7,1.0237,1,101.18,27.27,1.0596,1,103.57,26.71,1.0929,1,105.9,25.52,1.1215,1,108.23,24.29,1.1449,1,111,24.72,1.1661,1,115.4,25.58,1.1887,1,121.91,24.98,1.2059,1,128.64,23.86,1.2089,1,133.92,23.14,1.1934,1,136.79,24.69,1.1594,1,136.86,26.87,1.1095,1,134.2,27.83,1.0487,1,129.19,28.23,0.9828,1,122.43,28.71,0.9179,1,114.59,30.38,0.8593,1,106.31,31.31,0.8102,1,98.06,30.8,0.7715,1,90,29.64,0.74,1,81.47,28.88,0.7102,1,70.58,28.83,0.6811,1,56.89,27.36,0.652,1,41.5,24.4,0.6215,0.8,26.34,20.43,0.5878,0.6,13.56,16.5,0.5491,0.4,4.83,12.02,0.5046,0.2,0.72,6.19,0.4542,0] },
   f: { cell: 47.168, px: 84, cols: 48, rows: 4, ni: 21, nl: 150, no: 21, sheet: require('../assets/dove/camera/f.webp'), f: [0,0.26,0.4,0,-0.02,5.72,0.4488,0.25,-0.11,11.32,0.4916,0.5,-0.32,17.3,0.5265,0.75,-0.66,21.67,0.5542,1,-1.1,24.47,0.5774,1,-1.61,26.36,0.5993,1,-2.16,28.55,0.6225,1,-2.72,29.62,0.6478,1,-3.3,29.77,0.6735,1,-3.96,29.62,0.6992,1,-4.73,30.45,0.7244,1,-5.6,32.04,0.7488,1,-6.53,32.46,0.7717,1,-7.47,32.15,0.7924,1,-8.32,31.91,0.8105,1,-9.02,33.25,0.8253,1,-9.51,33.97,0.8366,1,-9.74,33.46,0.8443,1,-9.72,32.48,0.8486,1,-9.46,32.73,0.8503,1,-9.07,33.83,0.8505,1,-8.67,33.62,0.8504,1,-8.38,32.84,0.8503,1,-8.32,32.6,0.8504,1,-8.54,34.19,0.8505,1,-9.04,34.84,0.8507,1,-9.68,34.48,0.851,1,-10.3,33.88,0.8514,1,-10.71,34.88,0.8519,1,-10.83,35.79,0.8525,1,-10.68,35.23,0.8531,1,-10.39,34.06,0.8539,1,-10.14,33.9,0.8547,1,-10.08,34.94,0.8556,1,-10.24,34.66,0.8566,1,-10.57,33.71,0.8577,1,-10.93,33.14,0.8588,1,-11.27,34.72,0.8599,1,-11.57,35.51,0.8612,1,-11.77,35.15,0.8624,1,-11.92,34.43,0.8636,1,-12.1,35.19,0.8649,1,-12.4,36.12,0.8661,1,-12.84,35.53,0.8674,1,-13.36,34.26,0.8686,1,-13.86,33.72,0.8697,1,-14.26,34.67,0.8708,1,-14.51,34.4,0.8718,1,-14.63,33.29,0.8728,1,-14.81,32.46,0.8736,1,-15.24,33.45,0.8743,1,-15.92,34.26,0.8749,1,-16.75,33.79,0.8754,1,-17.54,32.84,0.8757,1,-18.08,32.92,0.8759,1,-18.24,34.31,0.8759,1,-17.95,34.46,0.8758,1,-17.34,33.86,0.8755,1,-16.58,33.36,0.8751,1,-15.88,34.68,0.8745,1,-15.4,35.69,0.8738,1,-15.18,35.39,0.873,1,-15.17,34.51,0.872,1,-15.25,34.56,0.8709,1,-15.31,35.68,0.8697,1,-14.61,35.63,0.8684,1,-12.69,34.72,0.867,1,-9.88,33.91,0.8656,1,-6.52,34.91,0.8641,1,-2.91,35.41,0.8626,1,0.74,34.77,0.861,1,4.24,33.77,0.8595,1,7.45,34.15,0.858,1,10.15,35.22,0.8565,1,12.06,34.81,0.855,1,12.8,33.64,0.8536,1,12.76,33.27,0.8522,1,12.55,34.46,0.851,1,12.17,34.46,0.8498,1,11.74,33.51,0.8488,1,11.44,32.56,0.8478,1,11.44,33.48,0.847,1,11.8,34.18,0.8464,1,12.5,33.7,0.8458,1,13.36,32.86,0.8454,1,14.18,33.35,0.8451,1,14.75,34.67,0.845,1,14.98,34.57,0.845,1,14.87,33.78,0.8452,1,14.52,33.49,0.8455,1,14.07,34.87,0.8459,1,13.37,35.46,0.8465,1,12.23,35.09,0.8471,1,10.74,34.56,0.8479,1,8.91,35.64,0.8488,1,6.82,36.71,0.8497,1,4.58,36.35,0.8508,1,2.38,35.3,0.8519,1,0.4,34.97,0.8531,1,-1.21,35.86,0.8543,1,-2.39,35.43,0.8555,1,-3.19,34.12,0.8567,1,-3.71,32.86,0.858,1,-4.03,33.45,0.8592,1,-4.17,33.93,0.8604,1,-4.32,33.51,0.8616,1,-4.61,32.73,0.8628,1,-4.86,33.02,0.8639,1,-4.92,34.52,0.8649,1,-4.76,34.66,0.8658,1,-4.43,33.92,0.8667,1,-4.07,33.17,0.8675,1,-3.85,34.13,0.8682,1,-3.88,34.67,0.8688,1,-4.17,34,0.8693,1,-4.64,32.96,0.8697,1,-5.15,33.16,0.8701,1,-5.6,34.51,0.8703,1,-5.9,34.55,0.8704,1,-6.09,33.88,0.8705,1,-6.2,33.46,0.8705,1,-6.29,34.84,0.8704,1,-6.37,35.43,0.8702,1,-6.37,34.84,0.87,1,-6.19,33.88,0.8697,1,-5.23,34.7,0.8693,1,-3.08,35.97,0.869,1,-0.03,35.78,0.8685,1,3.54,34.93,0.8681,1,7.24,34.79,0.8676,1,10.74,36.06,0.8671,1,13.8,35.93,0.8666,1,16.34,34.78,0.8661,1,18.36,33.61,0.8656,1,19.88,34.23,0.8651,1,20.86,34.29,0.8646,1,21.18,33.19,0.8641,1,21.17,32.1,0.8637,1,21.25,32.64,0.8632,1,21.31,33.9,0.8628,1,21.29,33.84,0.8623,1,21.22,33.22,0.8619,1,21.17,33.27,0.8615,1,21.23,34.85,0.8611,1,21.43,35.17,0.8607,1,21.73,34.45,0.8603,1,22.04,33.56,0.8599,1,22.25,34.33,0.8595,1,22.32,34.99,0.8591,1,21.73,34.64,0.8588,1,20.16,33.85,0.8584,1,17.91,34.07,0.8579,1,15.23,35.62,0.8575,1,12.27,35.91,0.8571,1,9.1,35.35,0.8567,1,5.72,34.73,0.8562,1,2.12,35.72,0.8558,1,-1.58,36.34,0.8553,1,-5.17,35.61,0.8548,1,-8.32,34.31,0.8544,1,-10.64,33.98,0.8539,1,-11.75,34.84,0.8535,1,-11.98,34.66,0.853,1,-11.87,33.72,0.8526,1,-11.52,32.9,0.8522,1,-11.07,33.87,0.8518,1,-10.63,34.36,0.8514,1,-10.23,33.66,0.8511,1,-9.86,32.55,0.8508,1,-9.48,32.73,0.8506,1,-9.07,33.83,0.8505,1,-8.65,33.61,0.85,1,-8.24,32.77,0.8475,1,-7.81,32.37,0.8418,1,-7.38,33.64,0.832,1,-6.92,33.92,0.8181,1,-6.45,33.13,0.8003,1,-5.96,32.07,0.7791,1,-5.45,32.36,0.7554,1,-4.93,32.63,0.73,1,-4.39,31.59,0.7037,1,-3.84,30,0.6772,1,-3.28,29.01,0.6511,1,-2.72,28.99,0.6252,1,-2.16,27.91,0.6006,1,-1.61,25.83,0.5807,1,-1.1,23.08,0.5649,0.8,-0.66,20.63,0.5492,0.6,-0.32,16.95,0.5281,0.4,-0.11,11.66,0.4967,0.2,-0.02,5.57,0.453,0] },
 };
 export const CAMERA_FIT = { bandRef: 39.5, posMin: 0.75 };

diff --git a/CLAUDE.md b/CLAUDE.md
@@ -871,9 +871,12 @@ style problem.
   never the same twice in a row; it only comes out if the wait passes ~300 ms;
   once out it always completes: in, loop while any registration is active,
   then it finishes the current lap and plays `out` FULLY into the camera (no
-  sliver at the island's edge, ever). Only the exit enters the camera: F's
-  mid-loop pop up into it was removed at the owner's request (it looked
-  unnatural and glitchy) and F's bird was enlarged to A-C's size (k 0.86).
+  sliver at the island's edge, ever). Only the exit enters the camera: every
+  letter's mid-loop climb into it (`dips` / `DIPS` in each `path.py`) is gone
+  (F first, then A-C on Oct 14 2026: "it seems like the loading animation is
+  canceling... the dove should always be visible, it only comes into the
+  camera when done loading", and the dips left its tail showing). The loop
+  QA's island string must be all `C`. F's bird was enlarged to A-C's size (k 0.86).
   The dove hovers in the ~21 dp band between the camera and the header
   (iPhone: island bottom 48, content top 69). Camera point: top-centre, half
   the status bar down. Short bands use path.json's fit rule. Reduced Motion: a
